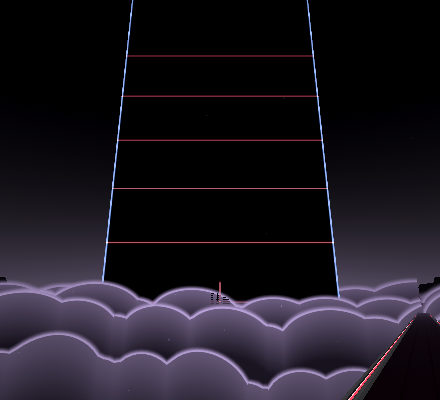
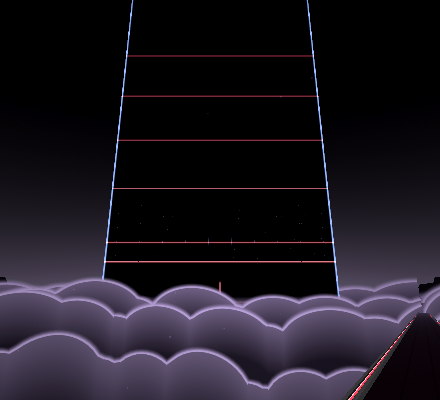
Monolith: lights on a ledge above the clouds
Owner, 2026-10-31: move the slab's lights up out of the clouds. The
diagonal and waving lasers' fixtures and the floor lights' strip now sit
on a ledge 150 m up the slab's face (y +70), above the puffs round it
(ledge_spot replaces foot_spot). The 520 m cloud ring moved to 470 m: it
ran through the slab and showed the black face through the cloud.

Claude-Session: https://claude.ai/code/session_01XiLHAWRVVgDFZqR7J7F4a3

diff --git a/game/env/AGENTS.md b/game/env/AGENTS.md
@@ -109,12 +109,13 @@ Monolith (one colossal slab down a terraced valley, seen from a tall pillar, abs
   vertices on each step edge so steps stay sharp, ending `VALLEY_RADIUS` out, inside the far plane; valley and pillar
   share `floor_material`); upright cloud rings (`CLOUD_RINGS`, `_cloud_ring`: a band up from the valley floor whose top
   is a row of round puffs, built in the mesh) among the terraces. Every terrace above y -5 starts
-  beyond r 320 m, bends included; keep it so when changing the valley's numbers. `foot_spot(share)` and
-  `up_face(lean)` place the lasers (`LightRig` "monolith": diagonal beams up the face from its foot, waving lasers
+  beyond r 320 m, bends included; keep it so when changing the valley's numbers. `ledge_spot(share)` and
+  `up_face(lean)` place the lasers (`LightRig` "monolith": diagonal beams up the face from its ledge `LEDGE_HEIGHT`
+  up, above the clouds (owner, 2026-10-31), waving lasers
   between; no square bars). Nothing within the notes' 300 m fly-in in any direction (owner's rule, 2026-10-31).
 - `MonolithFace.gdshader`: the slab's lights drawn on its front face (strip meshes would z-fight 500-1000 m out), each
   line at least `MIN_PIXELS` wide: edges in the left/right lasers' colours, `SEAMS` seams in the square bars' lit from
-  the foot by `lit`, a slit up the middle open to `slit` and a foot strip in the floor lights' colour
+  the foot by `lit`, a slit up the middle open to `slit` and a ledge strip in the floor lights' colour
   (`EventDriver._update_monolith`: `_built` x `MONOLITH_BUILT_SHARE`, a drop by Henge's `henge_drop` rule opens the
   slit, it closes to `MONOLITH_SLIT_REST`). Soft far edges not on yet: planned for the slab's outline, never its lines.
 - `MonolithFloor.gdshader`: the valley and pillar: dark ground with a neutral `BASE`, the horizon's glow on the far

diff --git a/doc/world/SPATIAL_LAYOUT.md b/doc/world/SPATIAL_LAYOUT.md
@@ -101,12 +101,12 @@ Plain boxes in `HengeRig.gd`, every size a named constant there; for 90 and 360 
   terraces up both sides, 15 m higher every 30 m out (4 m steep faces), to ridges about +295 m at 980 m. The first
   terrace above y -5 starts beyond 325 m. The slab stands on the valley floor (top about 950 m away); its shadow falls
   down the valley toward the player.
-- Clouds (owner's reference, 2026-10-31: stylized flats): 4 upright rings at 220, 360, 520 and 760 m, each a band up
+- Clouds (owner's reference, 2026-10-31: stylized flats): 4 upright rings at 220, 360, 470 and 760 m (none crossing the slab), each a band up
   from the valley floor topped by a row of round puffs; the 220 m ring's puffs top out near y -11; beyond 320 m they
   rise to about +60 m at 760 m, hiding the slab's foot. Edges soft (a fringe 0.012 rad wide, owner 2026-10-31);
   terrain, pillar and slab below the clouds' level take the cloud's tone, so nothing pokes through a cloud.
-- Lights: drawn on the slab's face (edges 3 m, seams 1.5 m every 90 m, slit 2 m, foot strip 2 m); beam fixtures along
-  its foot, 2 m in front of the face.
+- Lights: drawn on the slab's face (edges 3 m, seams 1.5 m every 90 m, slit 2 m, ledge strip 2 m, 150 m
+  up, y +70, above the clouds); beam fixtures along that ledge, 2 m in front of the face.
 - Sky: black, a neutral glow low on the horizon behind the slab and a fainter one all round behind the ridges.
 - Note corridor: within 320 m in any direction nothing rises above y -5 but the platform itself; the notes' 300 m
   fly-in is clear.

diff --git a/doc/world/GAME_BIBLE.md b/doc/world/GAME_BIBLE.md
@@ -56,7 +56,7 @@ See `SPATIAL_LAYOUT.md` (origin, bounds, corridor, exclusion zones) and the root
 - Feeling: standing before something that was here before you. One black slab (1:4:9), 360 m wide, 810 m tall, 90 m
   deep, 520 m away, 30 degrees left of ahead, its face turned to the player, on an open dark plain.
 - Light on the slab only: its two vertical edges (left and right lasers), 8 horizontal seams (square bars), a slit up
-  its middle and a strip along its foot (floor lights), beams up its face from fixtures at its foot (diagonal and
+  its middle and a strip along a ledge 150 m up, above the clouds (floor lights), beams up its face from fixtures on that ledge (diagonal and
   waving). A faint neutral glow on the horizon behind it; its shadow falls across the plain toward the player.
 - Build-up: seams light from the foot up; drop: the slit opens to the top, then closes back low.
 - The main form is one symmetric object placed off-centre on purpose (the point of the stage); props still to come.
